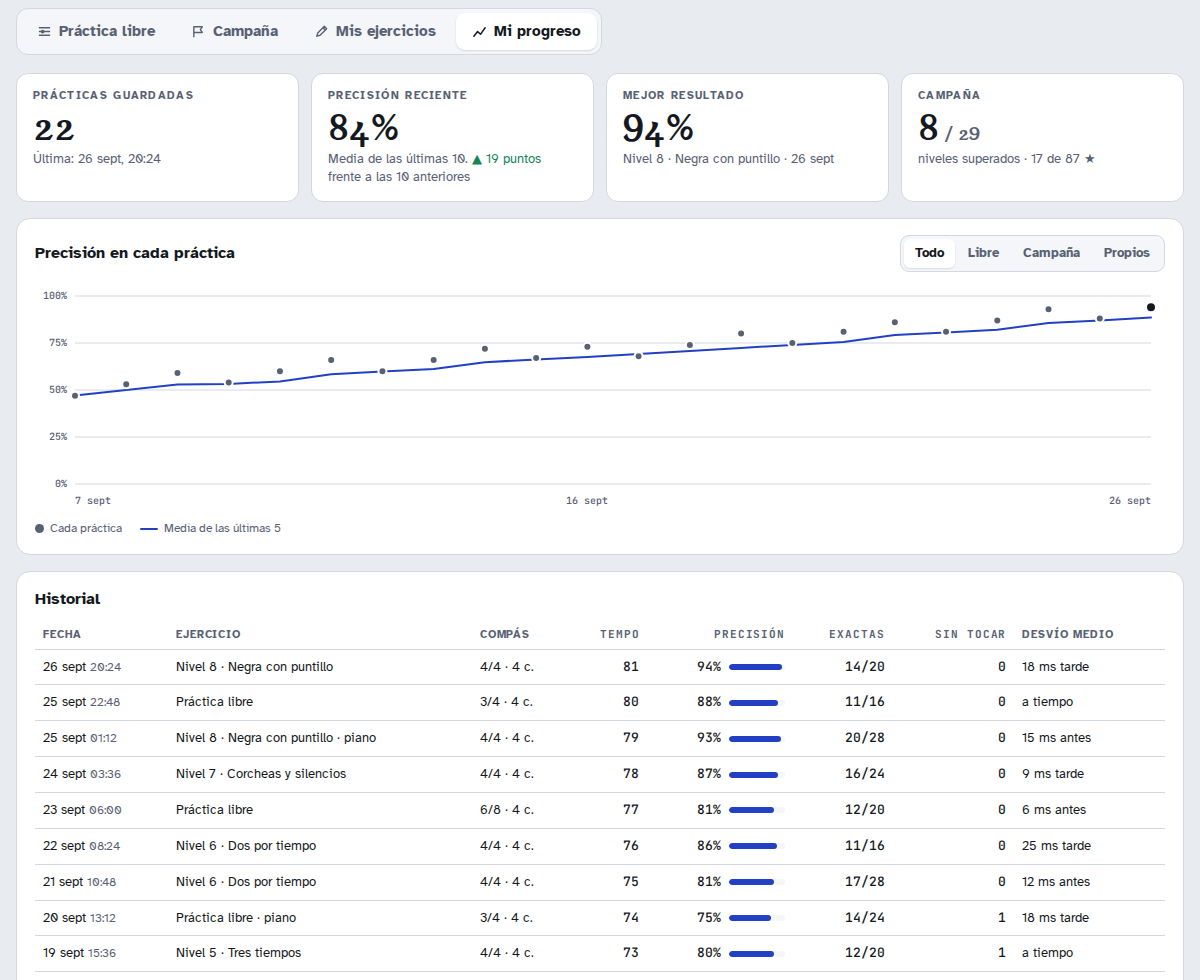
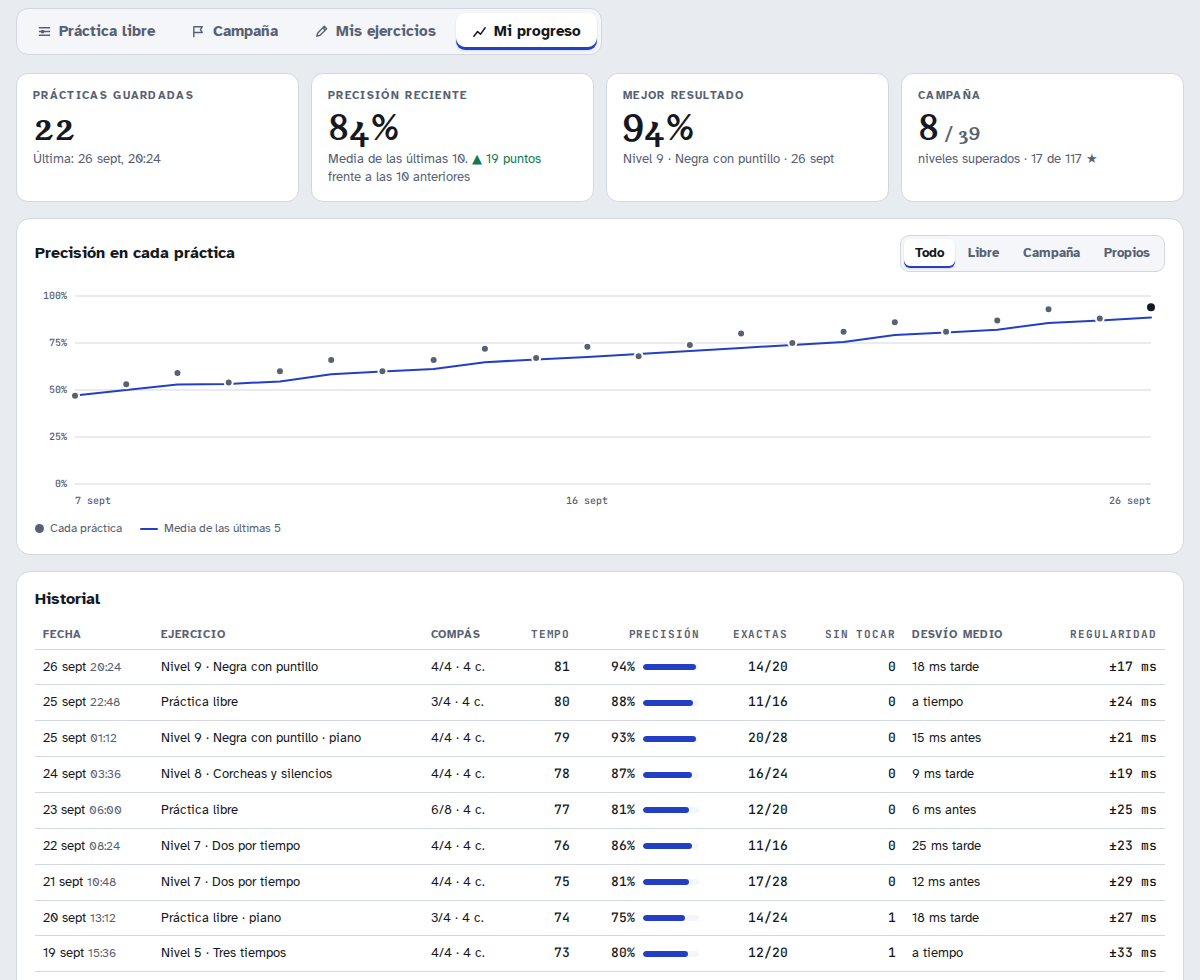
README: capturas rehechas con la interfaz actual
Las 18 capturas de docs/capturas/ muestran ya las cuatro pestañas, la campaña
de 39 niveles, el análisis de los toques, la columna de regularidad, las
opciones nuevas y el móvil al terminar.

Claude-Session: https://claude.ai/code/session_01KR51CwVVXhtFmUshsMceNd

diff --git a/README.md b/README.md
@@ -192,11 +192,11 @@ Resumen de tus prácticas, gráfica de precisión con la media de las últimas c
 ### En el móvil
 
 <p>
-  <img src="docs/capturas/movil-reposo.png" alt="Móvil en reposo con el botón flotante Practicar" width="260">
+  <img src="docs/capturas/movil-reposo.png" alt="Móvil en reposo: la partitura con textos para tocar y el botón Practicar" width="260">
   &nbsp;
   <img src="docs/capturas/6-movil.png" alt="Móvil durante la práctica con el botón flotante Toca aquí" width="260">
   &nbsp;
-  <img src="docs/capturas/movil-resultado.png" alt="Móvil al terminar la práctica con el botón de tres partes: Repetir, Nuevo ritmo y Siguiente" width="260">
+  <img src="docs/capturas/movil-resultado.png" alt="Móvil al terminar la práctica: resultados pegados a la partitura y el botón de tres partes Repetir, Nuevo ritmo y Listo" width="260">
 </p>
 
 En pantallas pequeñas el panel de opciones pasa debajo de la partitura. En móvil y tableta aparece un **botón grande abajo de la pantalla** mientras la partitura está a la vista:
